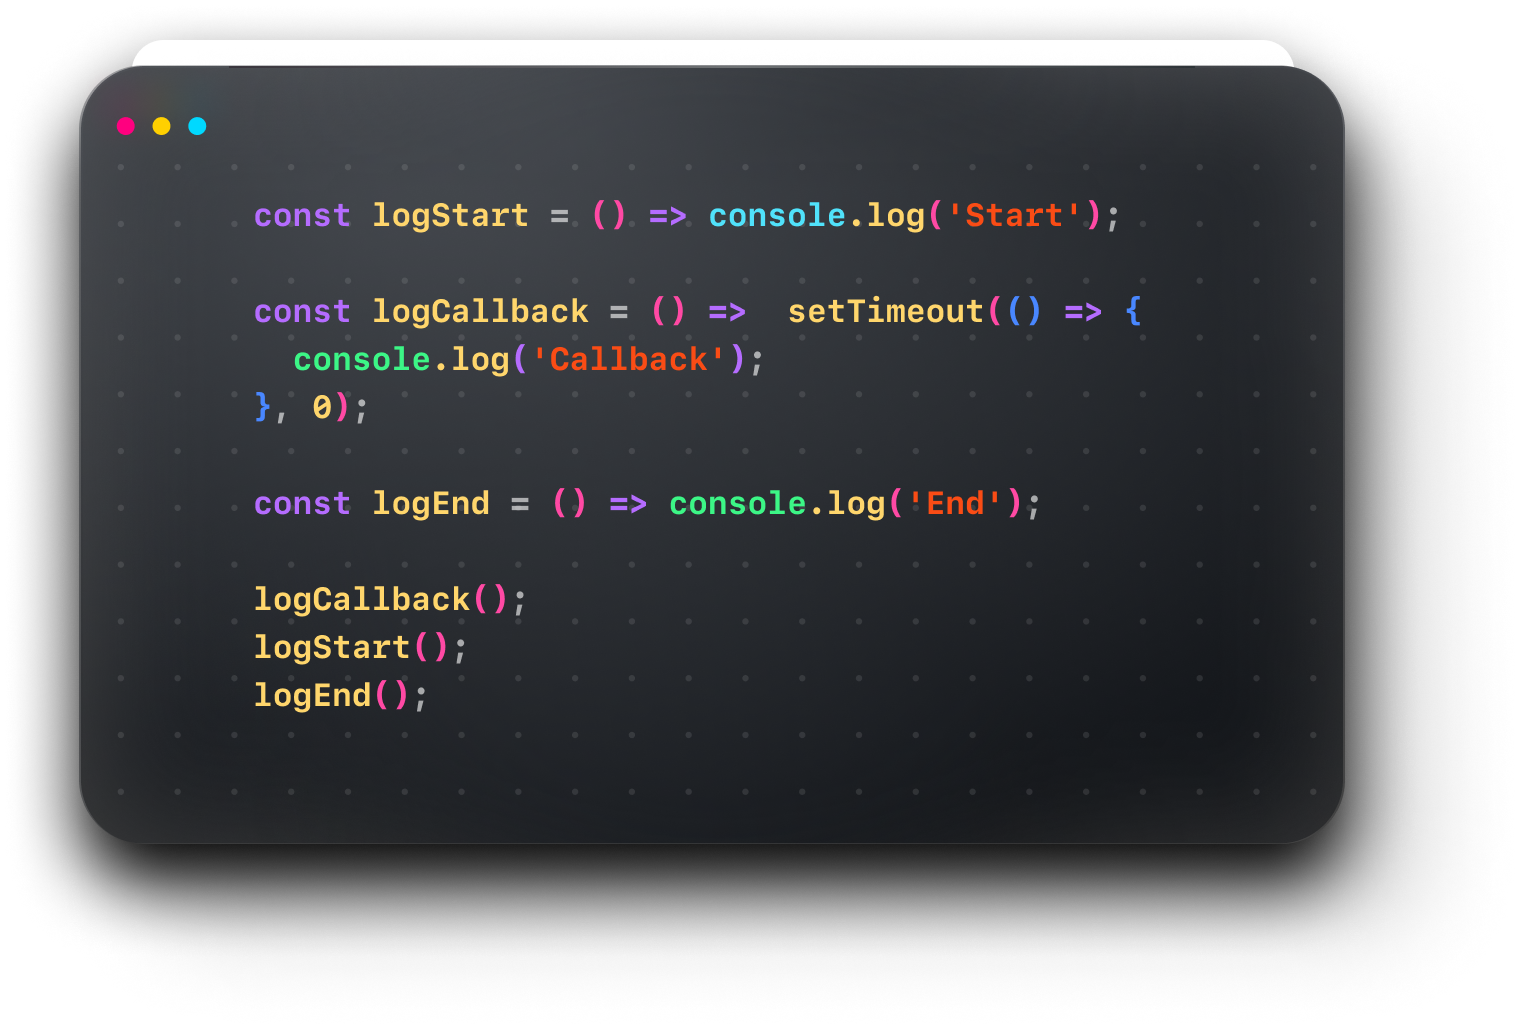
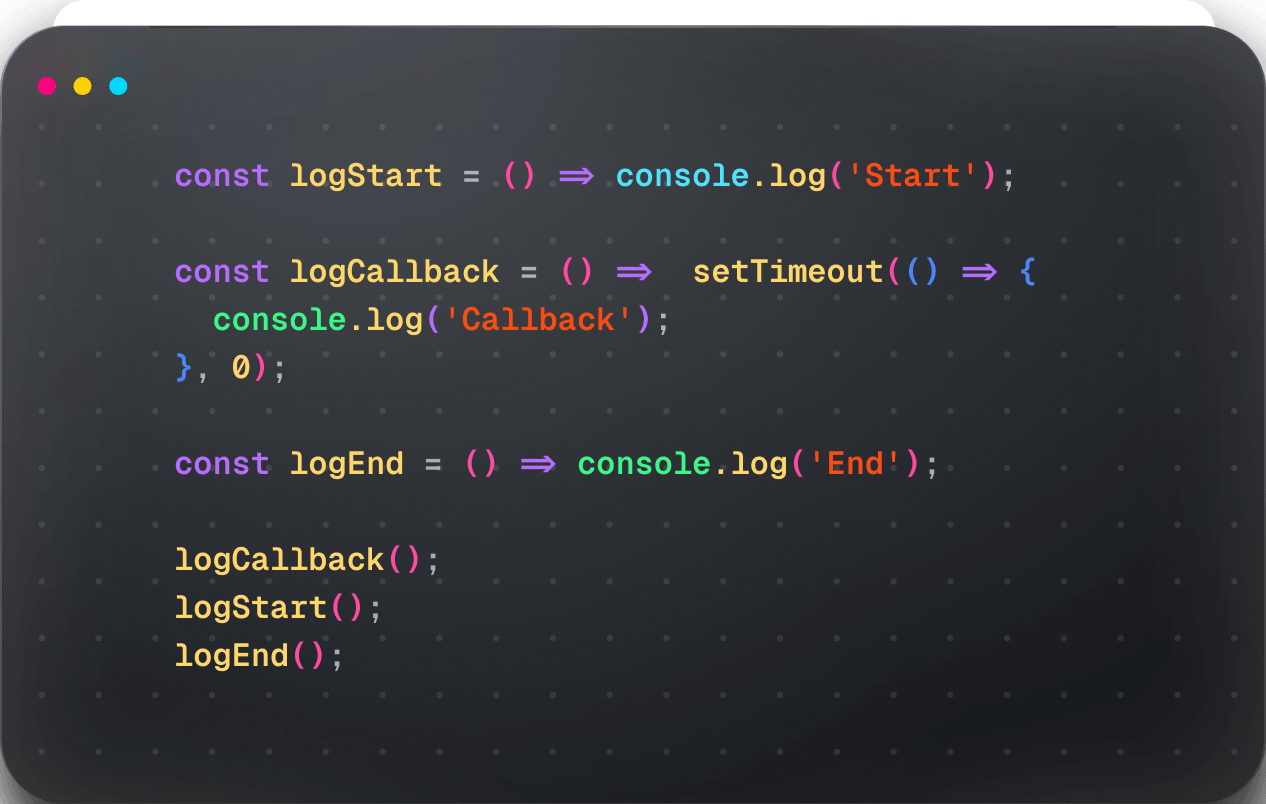
more mdx components

diff --git a/apps/js-visualized/src/components/landing/question-or-answer-card.tsx b/apps/js-visualized/src/components/landing/question-or-answer-card.tsx
@@ -1,0 +1,39 @@
+import * as React from 'react'
+import SectionWrapper from '@/components/section-wrapper'
+import { cn } from '@/utils/cn'
+import { MDXProvider, useMDXComponents } from '@mdx-js/react'
+
+const glowCommonStyles =
+	'absolute left-0 size-96 flex-shrink-0 -translate-x-1/2 rounded-full opacity-30 blur-[134px]'
+
+const QuestionOrAnswerCard: React.FC<
+	React.PropsWithChildren<{ className?: string; type: 'q' | 'a' }>
+> = ({ children, className, type }) => {
+	const mdxComponents = useMDXComponents()
+	return (
+		<MDXProvider components={mdxComponents}>
+			<SectionWrapper className="relative flex items-center overflow-hidden p-14">
+				<div
+					className={cn(glowCommonStyles, {
+						'bg-[#43E68B]': type === 'q',
+						'bg-[#E43B7B]': type === 'a',
+					})}
+				/>
+				<div
+					className={cn(
+						'bg-gradient-green-to-blue bg-clip-text text-[120px] font-black font-extrabold uppercase leading-none text-transparent',
+						{
+							'bg-gradient-green-to-blue': type === 'q',
+							'bg-gradient-purple-to-pink': type === 'a',
+						},
+					)}
+				>
+					{type}
+				</div>
+				<div className="pl-16">{children}</div>
+			</SectionWrapper>
+		</MDXProvider>
+	)
+}
+
+export default QuestionOrAnswerCard

diff --git a/apps/js-visualized/src/components/curved-line-intersection.tsx b/apps/js-visualized/src/components/curved-line-intersection.tsx
@@ -1,0 +1,35 @@
+import React from 'react'
+import { cn } from '@/utils/cn'
+
+const commonStyles =
+	'bg-background absolute h-[71px] w-[71px] before:absolute before:inset-0 before:border-border before:content-[""]'
+
+const CurvedLineIntersection: React.FC<
+	React.PropsWithChildren<{ className?: string }>
+> = ({ className }) => {
+	return (
+		<div className="relative h-[141px] w-full">
+			<div
+				className={cn(
+					'absolute bottom-0 left-0 right-0 top-0 bg-[linear-gradient(to_bottom,transparent_calc(50%_-_0.5px),hsla(var(--border))_calc(50%_-_0.5px),hsla(var(--border))_calc(50%_+_0.5px),transparent_calc(50%_+_0.5px))]',
+					className,
+				)}
+			>
+				<div
+					className={cn(
+						'bottom-0 left-0 before:rounded-tl-full before:border-l before:border-t',
+						commonStyles,
+					)}
+				/>
+				<div
+					className={cn(
+						'right-0 top-0 before:rounded-br-full before:border-b before:border-r ',
+						commonStyles,
+					)}
+				/>
+			</div>
+		</div>
+	)
+}
+
+export default CurvedLineIntersection

diff --git a/apps/js-visualized/src/components/landing/snippet-with-glow.tsx b/apps/js-visualized/src/components/landing/snippet-with-glow.tsx
@@ -1,0 +1,29 @@
+import * as React from 'react'
+import Image from 'next/image'
+import { cn } from '@/utils/cn'
+
+const SnippetWithGlow: React.FC<
+	React.PropsWithChildren<{ className?: string }>
+> = ({ className }) => {
+	return (
+		<div className={cn('not-prose flex flex-col items-center', className)}>
+			<h3 className="text-balance text-center text-2xl font-bold text-white">
+				You probably won't have
+				<br />
+				any trouble reading this code snippet.
+			</h3>
+			<div className="relative mt-20 flex justify-center">
+				<div className="absolute top-0 h-[170px] w-[400px] flex-shrink-0 rounded-[400px] bg-[linear-gradient(270deg,#FF007F_-8.36%,#771FFF_102.7%)] blur-[134px]" />
+				<Image
+					src="/images/trouble-reading-this-code-snippet.png"
+					alt="You probably won't have any trouble reading this code snippet."
+					width={633}
+					height={402}
+					className="relative z-10"
+				/>
+			</div>
+		</div>
+	)
+}
+
+export default SnippetWithGlow

diff --git a/apps/js-visualized/tailwind.config.ts b/apps/js-visualized/tailwind.config.ts
@@ -88,9 +88,11 @@ module.exports = withUt({
 			},
 			backgroundImage: {
 				'gradient-green-to-blue':
-					'linear-gradient(134deg, hsla(144,91%,60%,1) 40.75%, hsla(209,100%,65%,1) 90.52%)',
+					'linear-gradient(134deg, hsl(144,91%,60%) 40.75%, hsl(209,100%,65%) 90.52%)',
 				'gradient-orange-to-pink':
-					'linear-gradient(134deg, hsla(25,100%,71%,1) 5%, hsla(338,100%,64%,1) 90.52%)',
+					'linear-gradient(134deg, hsl(25,100%,71%) 5%, hsl(338,100%,64%) 90.52%)',
+				'gradient-purple-to-pink':
+					'linear-gradient(134deg, hsl(234,100%,61%) 5%, hsl(342,91%,60%) 90.52%)',
 			},
 			typography: () => ({
 				invert: {

diff --git a/apps/js-visualized/src/components/landing/index.ts b/apps/js-visualized/src/components/landing/index.ts
@@ -1,5 +1,13 @@
 import Hero from './hero'
 import QuestionAndAnswer from './question-and-answer'
+import QuestionOrAnswerCard from './question-or-answer-card'
+import SnippetWithGlow from './snippet-with-glow'
 import WhatYouWillLearn from './what-you-will-learn'
 
-export { Hero, QuestionAndAnswer, WhatYouWillLearn }
+export {
+	Hero,
+	QuestionAndAnswer,
+	WhatYouWillLearn,
+	SnippetWithGlow,
+	QuestionOrAnswerCard,
+}

diff --git a/apps/js-visualized/src/styles/globals.css b/apps/js-visualized/src/styles/globals.css
@@ -72,7 +72,7 @@
 		--destructive: 0 62.8% 30.6%;
 		--destructive-foreground: 210 40% 98%;
 
-		--border: 217.2 32.6% 17.5%;
+		--border: 204, 10%, 39%, 0.5;
 		--input: 217.2 32.6% 17.5%;
 		--ring: 212.7 26.8% 83.9%;
 	}
